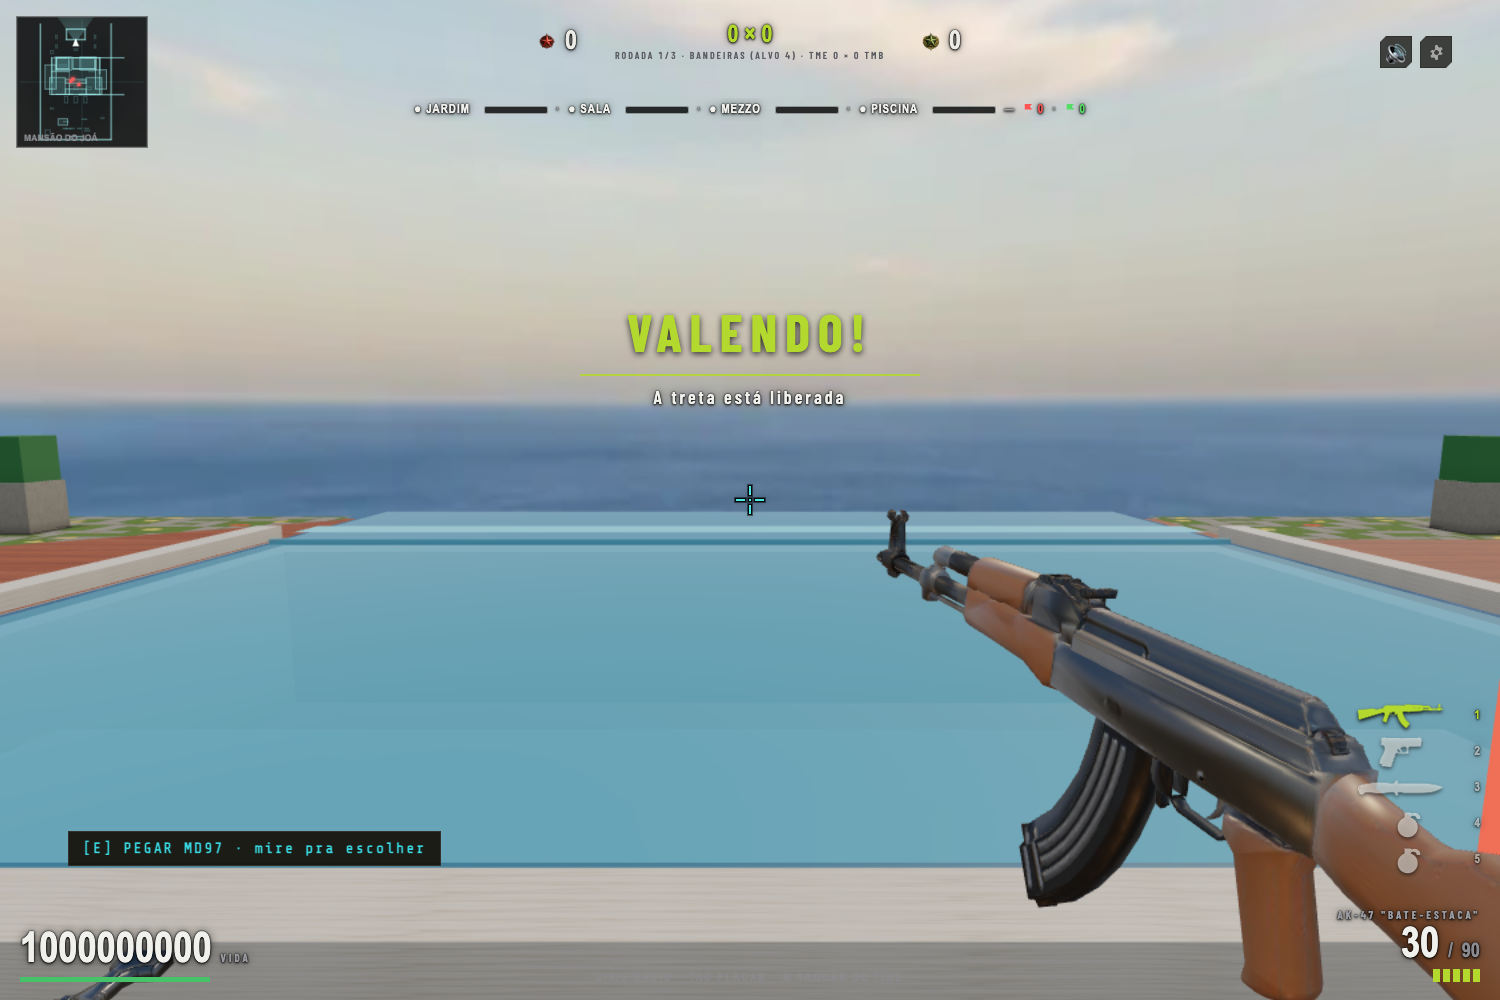
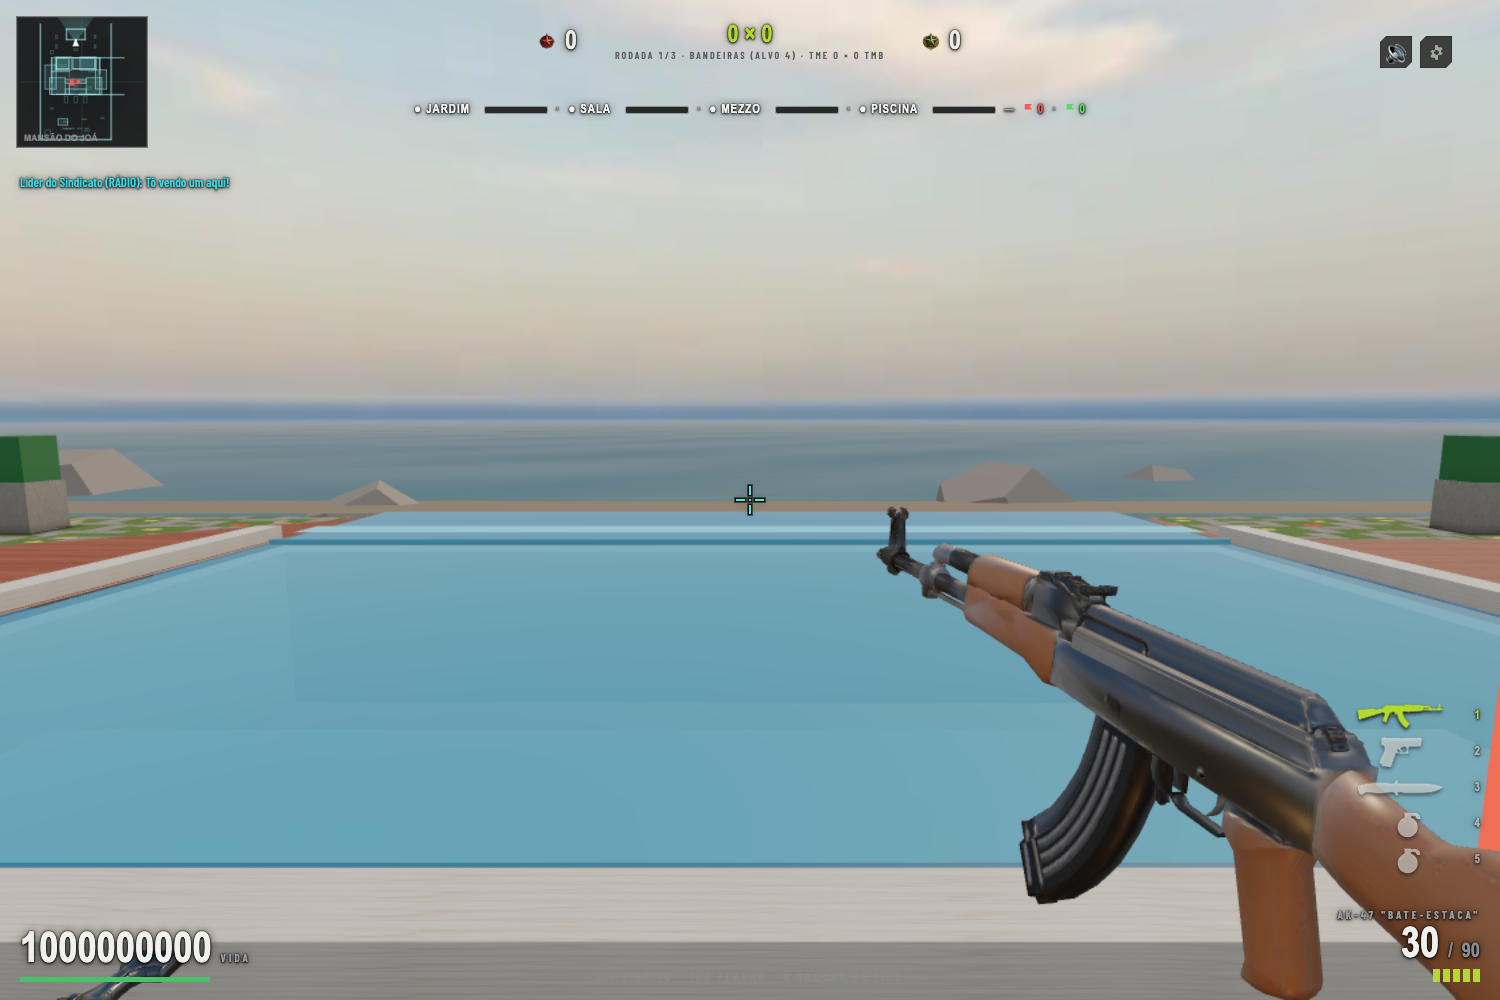
fix(props): normalizeGeo preserva uv1 — shader 'uv1' undeclared nos 7 carros canal-1 (BUG-71)
Regua nova eval:propsuv1 (UV1-1 uso real + UV1-2 raio no acervo), mutante
dropa-uv1 morde. Captura da mansao refeita: overlay de erro zerado.

Agent: Kimi Code

diff --git a/public/js/mapprops.js b/public/js/mapprops.js
@@ -91,6 +91,10 @@ export function normalizeGeo(src, mtx, opts = {}) {
   g.setAttribute('position', new THREE.BufferAttribute(pullAttr(pos, 3, n), 3));
   g.setAttribute('normal', new THREE.BufferAttribute(pullAttr(src.attributes.normal, 3, n), 3));
   g.setAttribute('uv', new THREE.BufferAttribute(pullAttr(src.attributes.uv, 2, n), 2));
+  // uv1 precisa sobreviver: material com textura em canal 1 (Mini Cooper e mais 6 GLBs)
+  // sem uv1 na geometria compila shader com `uv1` não declarado (props-uv1-check).
+  const uv1 = src.attributes.uv1 || src.attributes.uv;
+  g.setAttribute('uv1', new THREE.BufferAttribute(pullAttr(uv1, 2, n), 2));
   if (opts.color) {
     const src3 = src.attributes.color;
     const c = src3 ? pullAttr(src3, 3, n) : new Float32Array(n * 3).fill(1);

diff --git a/ARCH.generated.md b/ARCH.generated.md
@@ -8,7 +8,7 @@ Números atuais das zonas, do quality gate e do `package.json`:
 
 | Zona | O que é | Tamanho medido | Regra |
 |---|---|---|---|
-| `public/` | o **jogo** | 59 arquivos `.js`, 40.415 linhas · Three.js `r160` vendorizado | ES modules servidos crus, **zero build**, sem dependência de runtime |
+| `public/` | o **jogo** | 59 arquivos `.js`, 40.419 linhas · Three.js `r160` vendorizado | ES modules servidos crus, **zero build**, sem dependência de runtime |
 | `src/` | o **site** | 18 páginas `.astro`, 19 rotas `/api` · Astro `^7.1.1` | framework é bem-vindo; `service_role` só no servidor |
 | `tools/` | o **arnês** | 287 scripts em `tools/eval/`, 76 em `tools/` | node puro: sobe o jogo real sem browser |
 
@@ -25,10 +25,10 @@ Comandos e scripts atuais do quality gate:
 <!-- BEGIN:GERADO:scripts — não edite à mão, rode `npm run docs` -->
 
 ```bash
-npm run check:fast   # node tools/eval/runner.mjs syntax eval:release eval:telemetry eval:identity eval:error-console eval:error-origin eval:webgl eval:webglguard eval:maprotate eval:shaderlog eval:shaderbudget eval:botbrain eval:prune eval:vminspect eval:faccao eval:mapid eval:mapjson eval:mapcontrato eval:ambience-registry eval:parquewheel eval:redesign eval:matchoptions eval:charvoice eval:screenquery docs:check arch:check audio:check feet:check eval:vmlabhud eval:ctfhud eval:pause eval:ctfround eval:ctfwin eval:spawn eval:regen eval:pegada eval:dmgdir eval:ctflabels anims:check anims:merge:check walls:check media:check menuwalls:check travessao:check eval:medianet eval:posters eval:grafitelayout eval:simclock eval:backendhints changelog:check eval:velhooeste eval:penitenciaria eval:charhard eval:charpbr eval:motoca-visual eval:camera-grip eval:pilot-system eval:pilot-grip eval:char-thumbnail eval:asset-integrity eval:gltf-validator eval:props-acervo eval:character-voice eval:audio-pack-character-voice eval:cinematic-ui eval:grafite-editorial eval:map-source eval:map-new eval:campo-contract eval:lajes-rooftop eval:lajes-visual eval:lajes-authored eval:lajes-spatial eval:lajes-gap eval:lajes-circuito eval:lajes-antitrap eval:mansao-water eval:corrego-contract eval:corrego-water eval:look eval:mansao-ocean eval:wind eval:softparticles eval:escala-favela eval:escadao-contract eval:slice-abilities eval:faction-registry eval:mapview eval:devport spec:check skills:check eval:pickuparma eval:comentario eval:fixture
+npm run check:fast   # node tools/eval/runner.mjs syntax eval:release eval:telemetry eval:identity eval:error-console eval:error-origin eval:webgl eval:webglguard eval:maprotate eval:shaderlog eval:shaderbudget eval:botbrain eval:prune eval:vminspect eval:faccao eval:mapid eval:mapjson eval:mapcontrato eval:ambience-registry eval:parquewheel eval:redesign eval:matchoptions eval:charvoice eval:screenquery docs:check arch:check audio:check feet:check eval:vmlabhud eval:ctfhud eval:pause eval:ctfround eval:ctfwin eval:spawn eval:regen eval:pegada eval:dmgdir eval:ctflabels anims:check anims:merge:check walls:check media:check menuwalls:check travessao:check eval:medianet eval:posters eval:grafitelayout eval:simclock eval:backendhints changelog:check eval:velhooeste eval:penitenciaria eval:charhard eval:charpbr eval:motoca-visual eval:camera-grip eval:pilot-system eval:pilot-grip eval:char-thumbnail eval:asset-integrity eval:gltf-validator eval:props-acervo eval:propsuv1 eval:character-voice eval:audio-pack-character-voice eval:cinematic-ui eval:grafite-editorial eval:map-source eval:map-new eval:campo-contract eval:lajes-rooftop eval:lajes-visual eval:lajes-authored eval:lajes-spatial eval:lajes-gap eval:lajes-circuito eval:lajes-antitrap eval:mansao-water eval:corrego-contract eval:corrego-water eval:look eval:mansao-ocean eval:wind eval:softparticles eval:escala-favela eval:escadao-contract eval:slice-abilities eval:faction-registry eval:mapview eval:devport spec:check skills:check eval:pickuparma eval:comentario eval:fixture
 ```
 
-`package.json` tem **173 scripts**; o motivo de cada um mora em `SCRIPTS.md` (migrado das chaves `//nome` em 18/08/2026) — é onde está o porquê.
+`package.json` tem **174 scripts**; o motivo de cada um mora em `SCRIPTS.md` (migrado das chaves `//nome` em 18/08/2026) — é onde está o porquê.
 
 > Bloco gerado por `node tools/gen-docs.mjs`. Fonte: `node -p "Object.keys(require('./package.json').scripts)"`
 

diff --git a/docs/docs/comecando.md b/docs/docs/comecando.md
@@ -39,7 +39,7 @@ esta página envelhecia no primeiro commit — ver
 
 | O que | Quanto | Onde confere |
 |---|---:|---|
-| Código do jogo | 40.415 linhas em 59 arquivos | `git ls-files public/js/*.js \| xargs wc -l` |
+| Código do jogo | 40.419 linhas em 59 arquivos | `git ls-files public/js/*.js \| xargs wc -l` |
 | `game.js` | **6.879** linhas | `wc -l public/js/game.js` |
 | `main.js` | 2.701 linhas | `wc -l public/js/main.js` |
 | Armas com GLB | 27 | `git ls-files 'public/models/weapons/*.glb' \| wc -l` |
@@ -280,10 +280,10 @@ E os dois quality gates, com a lista exata do que cada um roda — direto do `pa
 {/* BEGIN:GERADO:scripts — não edite à mão, rode `npm run docs` */}
 
 ```bash
-npm run check:fast   # node tools/eval/runner.mjs syntax eval:release eval:telemetry eval:identity eval:error-console eval:error-origin eval:webgl eval:webglguard eval:maprotate eval:shaderlog eval:shaderbudget eval:botbrain eval:prune eval:vminspect eval:faccao eval:mapid eval:mapjson eval:mapcontrato eval:ambience-registry eval:parquewheel eval:redesign eval:matchoptions eval:charvoice eval:screenquery docs:check arch:check audio:check feet:check eval:vmlabhud eval:ctfhud eval:pause eval:ctfround eval:ctfwin eval:spawn eval:regen eval:pegada eval:dmgdir eval:ctflabels anims:check anims:merge:check walls:check media:check menuwalls:check travessao:check eval:medianet eval:posters eval:grafitelayout eval:simclock eval:backendhints changelog:check eval:velhooeste eval:penitenciaria eval:charhard eval:charpbr eval:motoca-visual eval:camera-grip eval:pilot-system eval:pilot-grip eval:char-thumbnail eval:asset-integrity eval:gltf-validator eval:props-acervo eval:character-voice eval:audio-pack-character-voice eval:cinematic-ui eval:grafite-editorial eval:map-source eval:map-new eval:campo-contract eval:lajes-rooftop eval:lajes-visual eval:lajes-authored eval:lajes-spatial eval:lajes-gap eval:lajes-circuito eval:lajes-antitrap eval:mansao-water eval:corrego-contract eval:corrego-water eval:look eval:mansao-ocean eval:wind eval:softparticles eval:escala-favela eval:escadao-contract eval:slice-abilities eval:faction-registry eval:mapview eval:devport spec:check skills:check eval:pickuparma eval:comentario eval:fixture
+npm run check:fast   # node tools/eval/runner.mjs syntax eval:release eval:telemetry eval:identity eval:error-console eval:error-origin eval:webgl eval:webglguard eval:maprotate eval:shaderlog eval:shaderbudget eval:botbrain eval:prune eval:vminspect eval:faccao eval:mapid eval:mapjson eval:mapcontrato eval:ambience-registry eval:parquewheel eval:redesign eval:matchoptions eval:charvoice eval:screenquery docs:check arch:check audio:check feet:check eval:vmlabhud eval:ctfhud eval:pause eval:ctfround eval:ctfwin eval:spawn eval:regen eval:pegada eval:dmgdir eval:ctflabels anims:check anims:merge:check walls:check media:check menuwalls:check travessao:check eval:medianet eval:posters eval:grafitelayout eval:simclock eval:backendhints changelog:check eval:velhooeste eval:penitenciaria eval:charhard eval:charpbr eval:motoca-visual eval:camera-grip eval:pilot-system eval:pilot-grip eval:char-thumbnail eval:asset-integrity eval:gltf-validator eval:props-acervo eval:propsuv1 eval:character-voice eval:audio-pack-character-voice eval:cinematic-ui eval:grafite-editorial eval:map-source eval:map-new eval:campo-contract eval:lajes-rooftop eval:lajes-visual eval:lajes-authored eval:lajes-spatial eval:lajes-gap eval:lajes-circuito eval:lajes-antitrap eval:mansao-water eval:corrego-contract eval:corrego-water eval:look eval:mansao-ocean eval:wind eval:softparticles eval:escala-favela eval:escadao-contract eval:slice-abilities eval:faction-registry eval:mapview eval:devport spec:check skills:check eval:pickuparma eval:comentario eval:fixture
 ```
 
-`package.json` tem **173 scripts**; o motivo de cada um mora em `SCRIPTS.md` (migrado das chaves `//nome` em 18/08/2026) — é onde está o porquê.
+`package.json` tem **174 scripts**; o motivo de cada um mora em `SCRIPTS.md` (migrado das chaves `//nome` em 18/08/2026) — é onde está o porquê.
 
 > Bloco gerado por `node tools/gen-docs.mjs`. Fonte: `node -p "Object.keys(require('./package.json').scripts)"`
 

diff --git a/README.md b/README.md
@@ -34,7 +34,7 @@ contra bots, direto na aba. Sem download, sem instalação, sem cadastro.
 
 | O que | Quanto | Onde confere |
 |---|---:|---|
-| Código do jogo | 40.415 linhas em 59 arquivos | `git ls-files public/js/*.js \| xargs wc -l` |
+| Código do jogo | 40.419 linhas em 59 arquivos | `git ls-files public/js/*.js \| xargs wc -l` |
 | `game.js` | **6.879** linhas | `wc -l public/js/game.js` |
 | `main.js` | 2.701 linhas | `wc -l public/js/main.js` |
 | Armas com GLB | 27 | `git ls-files 'public/models/weapons/*.glb' \| wc -l` |
@@ -195,10 +195,10 @@ está lá. Use `npm run dev`.
 <!-- BEGIN:GERADO:scripts — não edite à mão, rode `npm run docs` -->
 
 ```bash
-npm run check:fast   # node tools/eval/runner.mjs syntax eval:release eval:telemetry eval:identity eval:error-console eval:error-origin eval:webgl eval:webglguard eval:maprotate eval:shaderlog eval:shaderbudget eval:botbrain eval:prune eval:vminspect eval:faccao eval:mapid eval:mapjson eval:mapcontrato eval:ambience-registry eval:parquewheel eval:redesign eval:matchoptions eval:charvoice eval:screenquery docs:check arch:check audio:check feet:check eval:vmlabhud eval:ctfhud eval:pause eval:ctfround eval:ctfwin eval:spawn eval:regen eval:pegada eval:dmgdir eval:ctflabels anims:check anims:merge:check walls:check media:check menuwalls:check travessao:check eval:medianet eval:posters eval:grafitelayout eval:simclock eval:backendhints changelog:check eval:velhooeste eval:penitenciaria eval:charhard eval:charpbr eval:motoca-visual eval:camera-grip eval:pilot-system eval:pilot-grip eval:char-thumbnail eval:asset-integrity eval:gltf-validator eval:props-acervo eval:character-voice eval:audio-pack-character-voice eval:cinematic-ui eval:grafite-editorial eval:map-source eval:map-new eval:campo-contract eval:lajes-rooftop eval:lajes-visual eval:lajes-authored eval:lajes-spatial eval:lajes-gap eval:lajes-circuito eval:lajes-antitrap eval:mansao-water eval:corrego-contract eval:corrego-water eval:look eval:mansao-ocean eval:wind eval:softparticles eval:escala-favela eval:escadao-contract eval:slice-abilities eval:faction-registry eval:mapview eval:devport spec:check skills:check eval:pickuparma eval:comentario eval:fixture
+npm run check:fast   # node tools/eval/runner.mjs syntax eval:release eval:telemetry eval:identity eval:error-console eval:error-origin eval:webgl eval:webglguard eval:maprotate eval:shaderlog eval:shaderbudget eval:botbrain eval:prune eval:vminspect eval:faccao eval:mapid eval:mapjson eval:mapcontrato eval:ambience-registry eval:parquewheel eval:redesign eval:matchoptions eval:charvoice eval:screenquery docs:check arch:check audio:check feet:check eval:vmlabhud eval:ctfhud eval:pause eval:ctfround eval:ctfwin eval:spawn eval:regen eval:pegada eval:dmgdir eval:ctflabels anims:check anims:merge:check walls:check media:check menuwalls:check travessao:check eval:medianet eval:posters eval:grafitelayout eval:simclock eval:backendhints changelog:check eval:velhooeste eval:penitenciaria eval:charhard eval:charpbr eval:motoca-visual eval:camera-grip eval:pilot-system eval:pilot-grip eval:char-thumbnail eval:asset-integrity eval:gltf-validator eval:props-acervo eval:propsuv1 eval:character-voice eval:audio-pack-character-voice eval:cinematic-ui eval:grafite-editorial eval:map-source eval:map-new eval:campo-contract eval:lajes-rooftop eval:lajes-visual eval:lajes-authored eval:lajes-spatial eval:lajes-gap eval:lajes-circuito eval:lajes-antitrap eval:mansao-water eval:corrego-contract eval:corrego-water eval:look eval:mansao-ocean eval:wind eval:softparticles eval:escala-favela eval:escadao-contract eval:slice-abilities eval:faction-registry eval:mapview eval:devport spec:check skills:check eval:pickuparma eval:comentario eval:fixture
 ```
 
-`package.json` tem **173 scripts**; o motivo de cada um mora em `SCRIPTS.md` (migrado das chaves `//nome` em 18/08/2026) — é onde está o porquê.
+`package.json` tem **174 scripts**; o motivo de cada um mora em `SCRIPTS.md` (migrado das chaves `//nome` em 18/08/2026) — é onde está o porquê.
 
 > Bloco gerado por `node tools/gen-docs.mjs`. Fonte: `node -p "Object.keys(require('./package.json').scripts)"`
 

diff --git a/docs/i18n/en/docusaurus-plugin-content-docs/current/comecando.md b/docs/i18n/en/docusaurus-plugin-content-docs/current/comecando.md
@@ -41,7 +41,7 @@ this page was aging at the very first commit — see
 
 | What | How much | Where to check |
 |---|---:|---|
-| Game code | 40,415 lines in 59 files | `git ls-files public/js/*.js \| xargs wc -l` |
+| Game code | 40,419 lines in 59 files | `git ls-files public/js/*.js \| xargs wc -l` |
 | `game.js` | **6,879** lines | `wc -l public/js/game.js` |
 | `main.js` | 2,701 lines | `wc -l public/js/main.js` |
 | Weapons with GLB | 27 | `git ls-files 'public/models/weapons/*.glb' \| wc -l` |
@@ -282,10 +282,10 @@ And the two gates, with the exact list of what each one runs — straight from `
 {/* BEGIN:GERADO:scripts — não edite à mão, rode `npm run docs` */}
 
 ```bash
-npm run check:fast   # node tools/eval/runner.mjs syntax eval:release eval:telemetry eval:identity eval:error-console eval:error-origin eval:webgl eval:webglguard eval:maprotate eval:shaderlog eval:shaderbudget eval:botbrain eval:prune eval:vminspect eval:faccao eval:mapid eval:mapjson eval:mapcontrato eval:ambience-registry eval:parquewheel eval:redesign eval:matchoptions eval:charvoice eval:screenquery docs:check arch:check audio:check feet:check eval:vmlabhud eval:ctfhud eval:pause eval:ctfround eval:ctfwin eval:spawn eval:regen eval:pegada eval:dmgdir eval:ctflabels anims:check anims:merge:check walls:check media:check menuwalls:check travessao:check eval:medianet eval:posters eval:grafitelayout eval:simclock eval:backendhints changelog:check eval:velhooeste eval:penitenciaria eval:charhard eval:charpbr eval:motoca-visual eval:camera-grip eval:pilot-system eval:pilot-grip eval:char-thumbnail eval:asset-integrity eval:gltf-validator eval:props-acervo eval:character-voice eval:audio-pack-character-voice eval:cinematic-ui eval:grafite-editorial eval:map-source eval:map-new eval:campo-contract eval:lajes-rooftop eval:lajes-visual eval:lajes-authored eval:lajes-spatial eval:lajes-gap eval:lajes-circuito eval:lajes-antitrap eval:mansao-water eval:corrego-contract eval:corrego-water eval:look eval:mansao-ocean eval:wind eval:softparticles eval:escala-favela eval:escadao-contract eval:slice-abilities eval:faction-registry eval:mapview eval:devport spec:check skills:check eval:pickuparma eval:comentario eval:fixture
+npm run check:fast   # node tools/eval/runner.mjs syntax eval:release eval:telemetry eval:identity eval:error-console eval:error-origin eval:webgl eval:webglguard eval:maprotate eval:shaderlog eval:shaderbudget eval:botbrain eval:prune eval:vminspect eval:faccao eval:mapid eval:mapjson eval:mapcontrato eval:ambience-registry eval:parquewheel eval:redesign eval:matchoptions eval:charvoice eval:screenquery docs:check arch:check audio:check feet:check eval:vmlabhud eval:ctfhud eval:pause eval:ctfround eval:ctfwin eval:spawn eval:regen eval:pegada eval:dmgdir eval:ctflabels anims:check anims:merge:check walls:check media:check menuwalls:check travessao:check eval:medianet eval:posters eval:grafitelayout eval:simclock eval:backendhints changelog:check eval:velhooeste eval:penitenciaria eval:charhard eval:charpbr eval:motoca-visual eval:camera-grip eval:pilot-system eval:pilot-grip eval:char-thumbnail eval:asset-integrity eval:gltf-validator eval:props-acervo eval:propsuv1 eval:character-voice eval:audio-pack-character-voice eval:cinematic-ui eval:grafite-editorial eval:map-source eval:map-new eval:campo-contract eval:lajes-rooftop eval:lajes-visual eval:lajes-authored eval:lajes-spatial eval:lajes-gap eval:lajes-circuito eval:lajes-antitrap eval:mansao-water eval:corrego-contract eval:corrego-water eval:look eval:mansao-ocean eval:wind eval:softparticles eval:escala-favela eval:escadao-contract eval:slice-abilities eval:faction-registry eval:mapview eval:devport spec:check skills:check eval:pickuparma eval:comentario eval:fixture
 ```
 
-`package.json` has **173 scripts**; the reason behind each one lives in `SCRIPTS.md`.
+`package.json` has **174 scripts**; the reason behind each one lives in `SCRIPTS.md`.
 
 > Block generated by `node tools/gen-docs.mjs`. Source: `node -p "Object.keys(require('./package.json').scripts)"`
 

diff --git a/KNOWN-BUGS.md b/KNOWN-BUGS.md
@@ -51,6 +51,28 @@ lista de "balão" do CHR1 tem os mesmos 13 antes e depois).
 
 ## P0 — quebram o jogo ou mentem para quem mede
 
+### ~~BUG-71 · shader `'uv1' undeclared` — PropBatch jogava fora o TEXCOORD_1 do GLB~~ · RESOLVIDO 20/08
+
+**Sintoma:** toda captura da mansão (bug64-mansao-v21/depois) saía com o console de
+debug vermelho cobrindo metade da tela — `THREE.WebGLProgram: Shader Error, 'uv1':
+undeclared identifier`. O erro seguia vivo na v2.1.0-teste depois do merge da main.
+
+**Causa raiz — medida, não palpite.** O Mini Cooper (`2014_mini_cooper_s_f56.glb`) tem
+`normalTexture.texCoord: 1` (glTF legal, a primitiva tem TEXCOORD_1). O `PropBatch`
+instancia via `normalizeGeo` (`mapprops.js`), que reescrevia a geometria só com
+{position, normal, uv}: o uv1 sumia e o material (com a textura no canal 1) ficava. O
+three r160 só declara `attribute vec2 uv1` quando a GEOMETRIA tem uv1
+(`three.module.js:20851`, `vertexUv1s: HAS_ATTRIBUTE_UV1`) — shader compilado usa `uv1`
+sem declaração. Confirmação em runtime: os 3 programas com `diagnostics` no renderer da
+mansão bootada eram exatamente os materiais do Mini com `uv1` no cacheKey. Varredura de
+JSON em 929 GLBs: **7 com textura em canal ≥1** (Mini, DeLorean, Cobalt, Fiesta, M8,
+Peugeot 3008, broken_car_2) — o defeito não era só da mansão.
+
+**Conserto:** `normalizeGeo` agora carrega uv1 (o da fonte, ou cópia do uv — o merge
+exige conjunto idêntico de atributos). Régua: `eval:propsuv1` (UV1-1 chama o
+normalizeGeo REAL; UV1-2 mede o raio no acervo), mutante `--mutante=dropa-uv1` morde.
+Figura (Lei 4): mesma captura da mansão refeita depois — overlay zerado, Mini renderiza.
+
 ### ~~BUG-70 · crash em produção no `_updatePickups` — arma do mapa com id que não existe~~ · RESOLVIDO 18/08
 
 **Sintoma (literal, issue #366, aberta pelo `crash-fix.yml`):**

diff --git a/SCRIPTS.md b/SCRIPTS.md
@@ -912,3 +912,7 @@ Régua + a mutação que prova que ela morde, no mesmo comando: primeiro valida 
 ## `skills:sync`
 
 Este repo é multi-agente (Claude, Kimi, OpenCode). Skills NATIVAS (csbrasil, asset-review, bug-hunt, gauntlet-fps, regua) vivem como diretórios reais em .claude/skills/, mas os outros arnêses leem .agents/skills/ — que é gitignored. Este script cria o symlink .agents/skills/<nome> → ../.claude/skills/<nome> para cada nativa. Nunca toca diretório real de .agents/skills/ (terceira, dona é o skills-lock.json).
+
+## `eval:propsuv1`
+
+Geometria normalizada pelo PropBatch não pode perder o uv1 do GLB: material com textura em canal 1 (Mini Cooper + 6 carros) sem uv1 na geometria compila shader com `uv1` não declarado e cobre a captura de erro vermelho (mansão, 20/08). `--mutante=dropa-uv1` prova que morde.

diff --git a/docs/docs/arquitetura.md b/docs/docs/arquitetura.md
@@ -70,7 +70,7 @@ Tamanho dos arquivos que o `gen-arch.mjs` indexa — bloco gerado, regenerado po
 | `public/js/weapons.js` | 353 |
 | `public/js/springs.js` | 260 |
 
-Total de `public/js/`: **40.415 linhas em 59 arquivos**. O índice símbolo→linha, com a tabela de conflito, é outro bloco gerado: `tools/eval/ARCH.md` (`npm run arch`).
+Total de `public/js/`: **40.419 linhas em 59 arquivos**. O índice símbolo→linha, com a tabela de conflito, é outro bloco gerado: `tools/eval/ARCH.md` (`npm run arch`).
 
 > Bloco gerado por `node tools/gen-docs.mjs`. Fonte: ``git ls-files public/js/*.js | xargs wc -l``
 

diff --git a/STATUS.md b/STATUS.md
@@ -4,8 +4,8 @@
 
 - **Versão:** `2.0.0-alpha.159`
 - **Conteúdo jogável:** 10 facções, 62 personagens, 17 mapas e 27 armas com GLB
-- **Código do jogo:** 40.415 linhas em 59 módulos JavaScript
-- **Automação:** 173 comandos npm, 287 scripts de avaliação e 76 scripts de pipeline
+- **Código do jogo:** 40.419 linhas em 59 módulos JavaScript
+- **Automação:** 174 comandos npm, 287 scripts de avaliação e 76 scripts de pipeline
 
 > Bloco gerado por `node tools/gen-docs.mjs`. Fonte: `package.json · CHARACTERS · MAPS · public/models/weapons · public/js · tools/`
 

diff --git a/docs/i18n/en/docusaurus-plugin-content-docs/current/arquitetura.md b/docs/i18n/en/docusaurus-plugin-content-docs/current/arquitetura.md
@@ -77,7 +77,7 @@ Size of the files `gen-arch.mjs` indexes — a generated block, regenerated by
 | `public/js/weapons.js` | 353 |
 | `public/js/springs.js` | 260 |
 
-Total in `public/js/`: **40,415 lines in 59 files**. The symbol-to-line index lives in `tools/eval/ARCH.md`.
+Total in `public/js/`: **40,419 lines in 59 files**. The symbol-to-line index lives in `tools/eval/ARCH.md`.
 
 > Block generated by `node tools/gen-docs.mjs`. Source: ``wc -l public/js/*.js``
 
